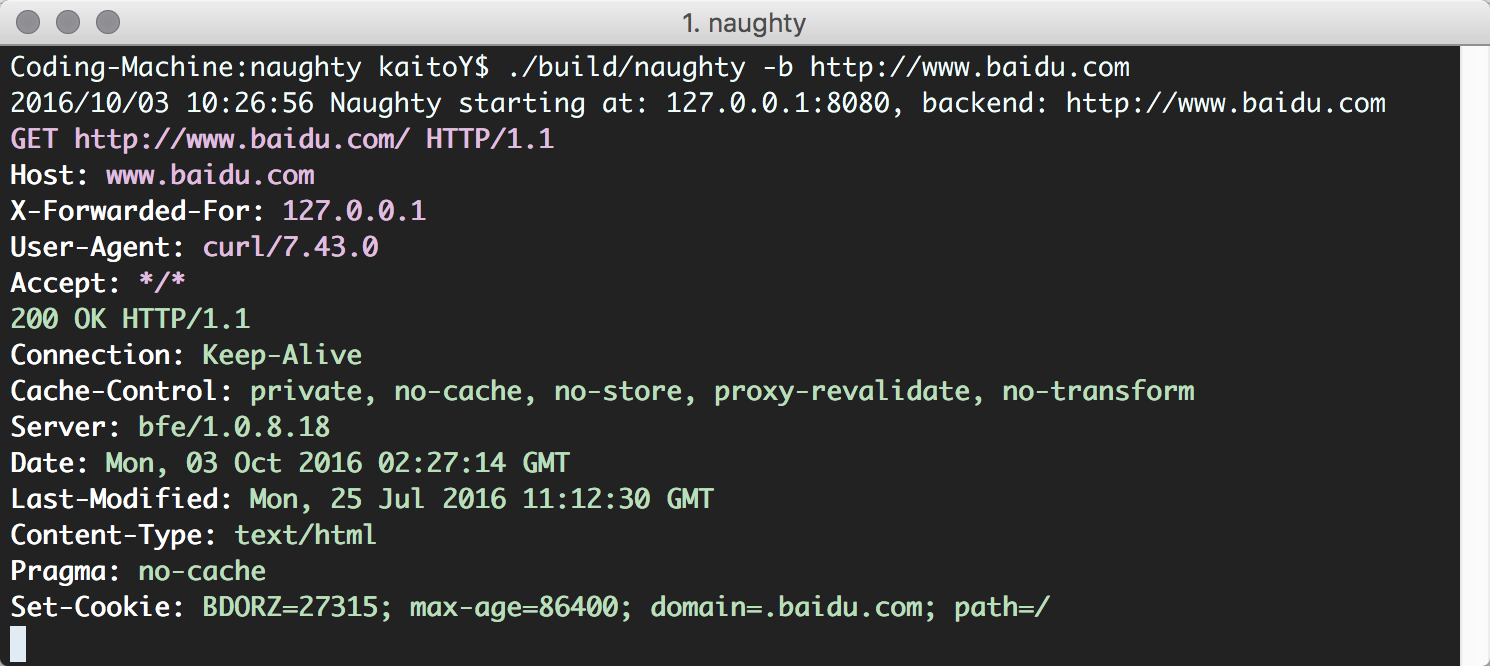
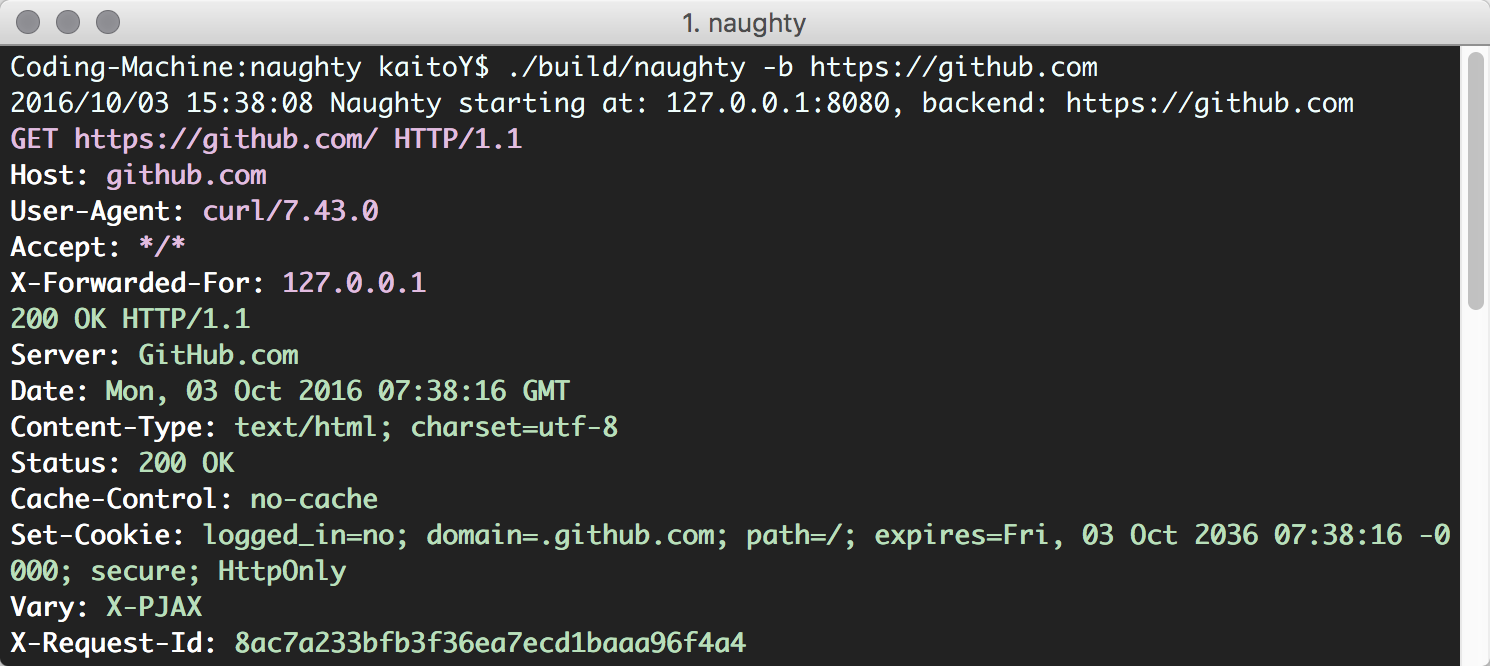
impelement header order

diff --git a/speakhttp/render.go b/speakhttp/render.go
@@ -12,6 +12,38 @@ import (
 	"github.com/fatih/color"
 )
 
+// refer to https://en.wikipedia.org/wiki/List_of_HTTP_header_fields
+var (
+	RequestWellKnownHeaders = []string{
+		"Host",
+		"Date",
+		"User-Agent",
+		"Accept",
+		"Connection",
+		"Authorization",
+		"Accept-Charset",
+		"Accept-Encoding",
+		"Accept-Language",
+		"Cookie",
+		"Content-Length",
+		"Referer",
+		"Upgrade",
+	}
+	ResponseWellKnownHeaders = []string{
+		"Server",
+		"Date",
+		"Connection",
+		"Content-Type",
+		"Content-Length",
+		"Transfer-Encoding",
+		"Status",
+		"Cache-Control",
+		"Set-Cookie",
+		"Trailer",
+		"Vary",
+	}
+)
+
 // Render defines the type of printing http request and response packets
 type Render interface {
 	// SpeakRequest is the method to printing http request
@@ -64,7 +96,8 @@ func curlRequest(req *http.Request, withBody bool) {
 	fmt.Printf("> %s %s %s\n", req.Method, req.URL.String(), req.Proto)
 	// incoming req host is promoted to req.Host
 	fmt.Printf("> Host: %s\n", req.Host)
-	for k := range req.Header {
+	order := getHeaderOrder(req.Header, RequestWellKnownHeaders)
+	for _, k := range order {
 		fmt.Printf("> %s: %s\n", k, req.Header.Get(k))
 	}
 	if withBody {
@@ -84,7 +117,8 @@ func CurlResponse(res *http.Response) {
 
 func curlResponse(res *http.Response, withBody bool) {
 	fmt.Printf("< %s %s\n", res.Proto, res.Status)
-	for k := range res.Header {
+	order := getHeaderOrder(res.Header, ResponseWellKnownHeaders)
+	for _, k := range order {
 		fmt.Printf("< %s: %s\n", k, res.Header.Get(k))
 	}
 	if withBody {
@@ -108,7 +142,8 @@ func colorRequest(req *http.Request, withBody bool) {
 	fmt.Printf("%s %s %s\n", magenta(req.Method), magenta(req.URL.String()), magenta(req.Proto))
 	// incoming req host is promoted to req.Host
 	fmt.Printf("%s %s\n", bold("Host:"), magenta(req.Host))
-	for k := range req.Header {
+	order := getHeaderOrder(req.Header, RequestWellKnownHeaders)
+	for _, k := range order {
 		fmt.Printf("%s%s %s\n", bold(k), bold(":"), magenta(req.Header.Get(k)))
 		if k == "Authorization" {
 			u, p, ok := req.BasicAuth()
@@ -136,7 +171,8 @@ func colorResponse(res *http.Response, withBody bool) {
 	green := color.New(color.FgHiGreen, color.Bold).SprintFunc()
 	bold := color.New(color.Bold).SprintFunc()
 	fmt.Printf("%s %s\n", green(res.Status), green(res.Proto))
-	for k := range res.Header {
+	order := getHeaderOrder(res.Header, ResponseWellKnownHeaders)
+	for _, k := range order {
 		fmt.Printf("%s%s %s\n", bold(k), bold(":"), green(res.Header.Get(k)))
 	}
 	if withBody {
@@ -168,4 +204,31 @@ func printResponseBody(res *http.Response) {
 	// restore request body content
 	res.Body = ioutil.NopCloser(bytes.NewBuffer(b))
 	fmt.Println(string(b))
+}
+
+func getHeaderOrder(src http.Header, order []string) []string {
+	if len(src) == 0 {
+		return []string{}
+	}
+	// firstly we copy the http header to keep it unchanged
+	head := make(map[string]string)
+	for k := range src {
+		head[k] = src.Get(k)
+	}
+
+	ret := make([]string, 0)
+	// go through order array to get known headers in order
+	for _, h := range order {
+		if _, ok := head[h]; ok {
+			ret = append(ret, h)
+			delete(head, h)
+		}
+	}
+
+	// append items left in the header
+	for k, _ := range head {
+		ret = append(ret, k)
+	}
+
+	return ret
 }

diff --git a/speakhttp/render_test.go b/speakhttp/render_test.go
@@ -4,6 +4,7 @@ import (
 	"fmt"
 	"net/http"
 	"net/http/httptest"
+	"reflect"
 	"testing"
 )
 
@@ -49,5 +50,53 @@ func TestRender(t *testing.T) {
 			t.Errorf("failed connect, %s", err)
 		}
 		r.SpeakResponse(resp)
+	}
+}
+
+func TestOrder(t *testing.T) {
+	tests := []struct {
+		req map[string]string
+		res map[string]string
+		// request order + response order
+		expected []string
+	}{
+		{
+			req: map[string]string{
+				"Client":        "Test_Client",
+				"Authorization": "Test_Authorization",
+				"Date":          "Test_Date",
+			},
+			res: map[string]string{
+				"Set-Cookie": "Test_Cookie",
+				"X-Reqid":    "Test_reqid",
+				"Connection": "Test_Connection",
+				"Status":     "Test-Status",
+			},
+			expected: []string{"Date", "Authorization", "Client",
+				"Connection", "Status", "Set-Cookie", "X-Reqid"},
+		},
+	}
+	for _, te := range tests {
+		req, err := http.NewRequest("GET", "http://example.com", nil)
+		if err != nil {
+			t.Errorf("Failed to new request: %s", err)
+		}
+		res, err := http.NewRequest("GET", "http://example.com", nil)
+		if err != nil {
+			t.Errorf("Failed to new request: %s", err)
+		}
+
+		for k, v := range te.req {
+			req.Header.Add(k, v)
+		}
+		for k, v := range te.res {
+			res.Header.Add(k, v)
+		}
+		order := getHeaderOrder(req.Header, RequestWellKnownHeaders)
+		order = append(order, getHeaderOrder(res.Header, ResponseWellKnownHeaders)...)
+		t.Logf("Result order: %#v", order)
+		if !reflect.DeepEqual(order, te.expected) {
+			t.Errorf("Order incorrect, actual: %#v, expected: %#v", order, te.expected)
+		}
 	}
 }
